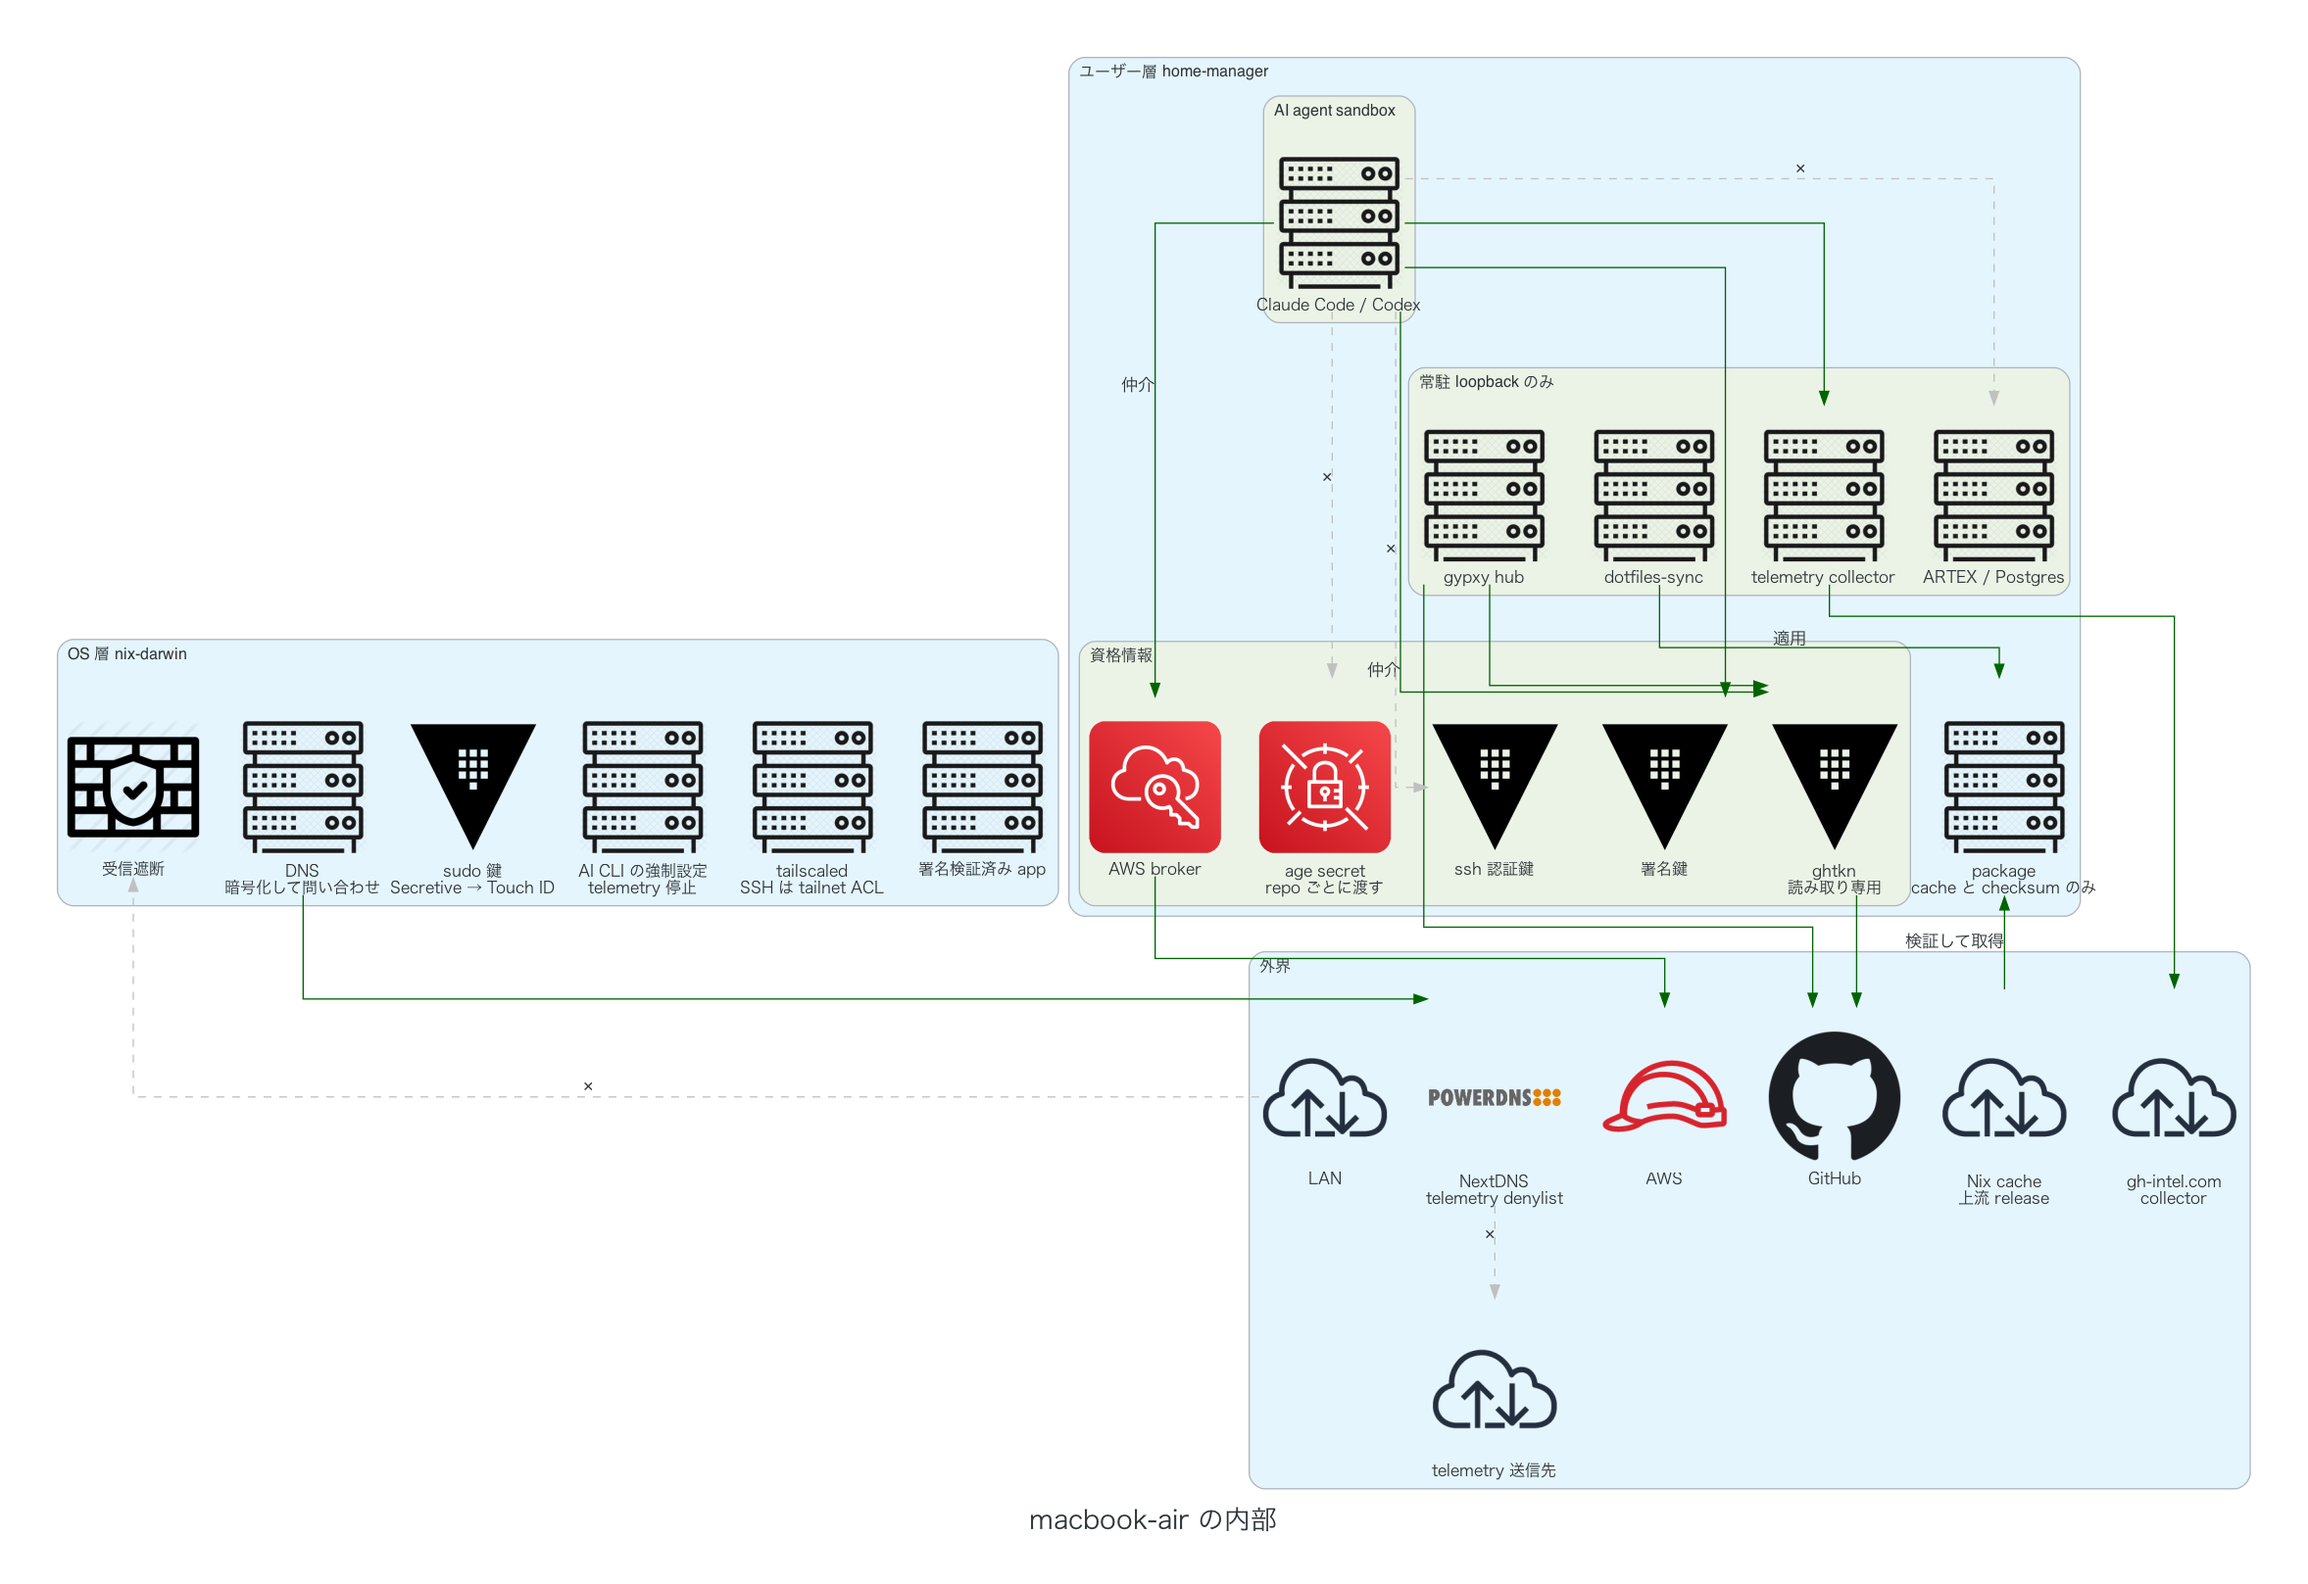
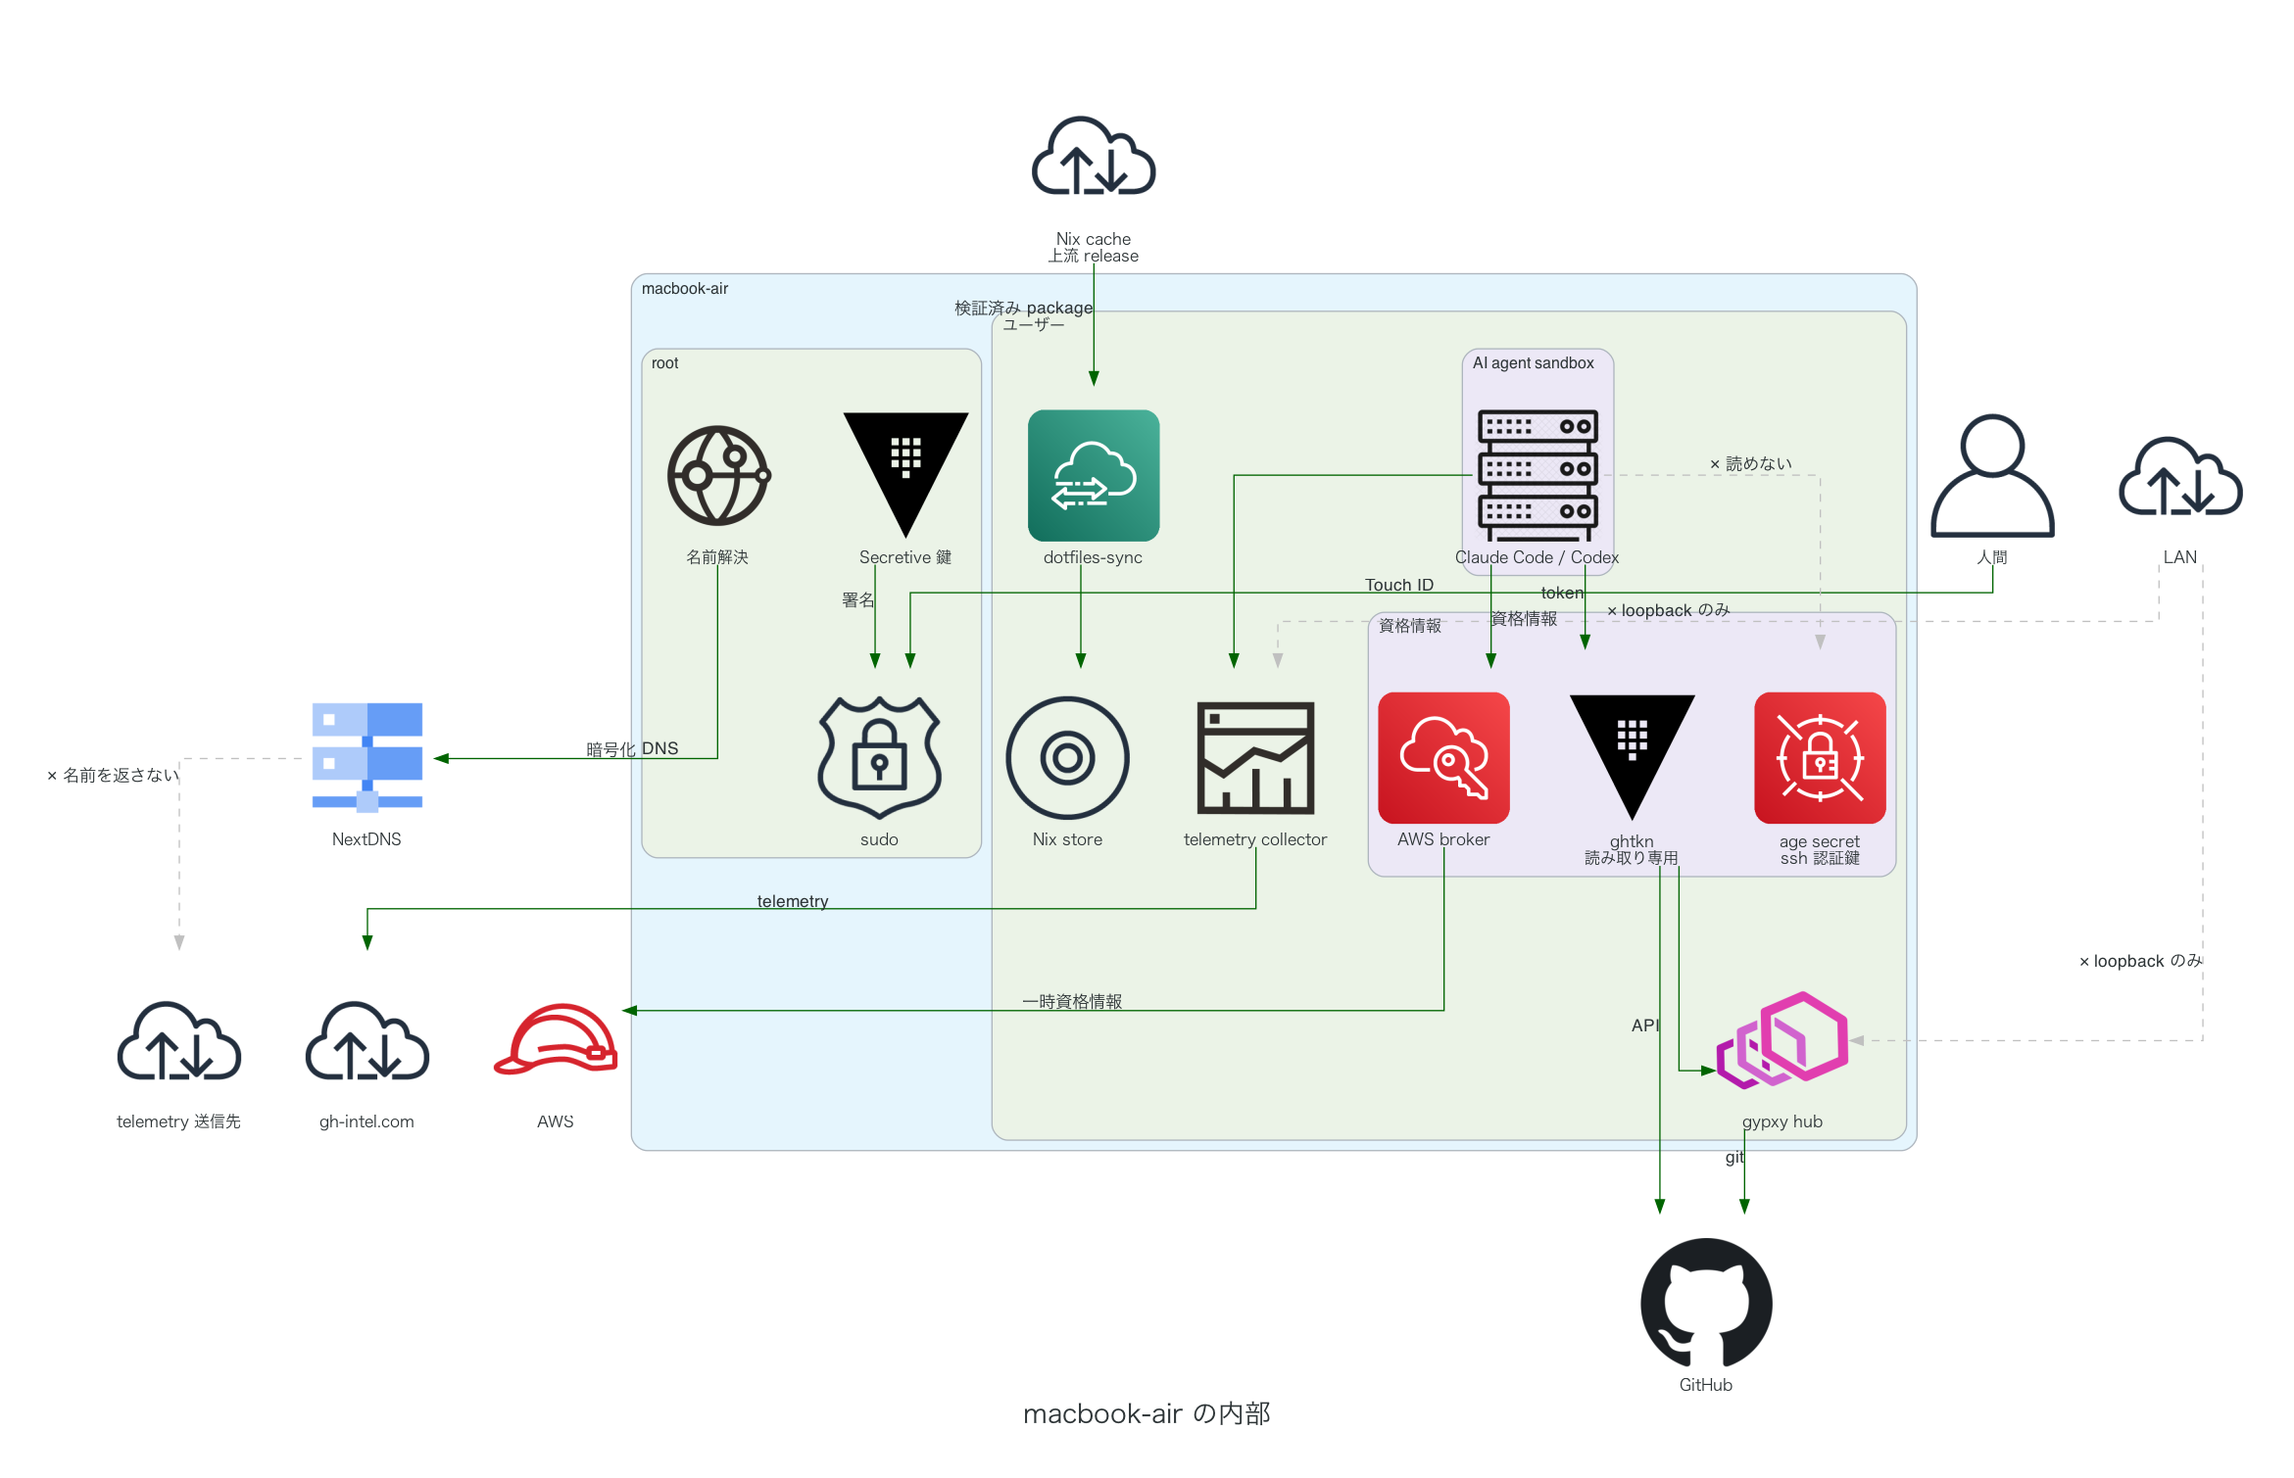
docs: 端末内部の図をデータの流れで描き直し、受信の遮断を loopback 待受として表す

diff --git a/docs/security/device_diagram.py b/docs/security/device_diagram.py
@@ -2,7 +2,7 @@
 # requires-python = ">=3.11"
 # dependencies = ["diagrams==0.24.4"]
 # ///
-"""端末ごとの内部構成を 1 端末 1 枚で (OS 層・ユーザー層・agent sandbox・資格情報・常駐) を図にする。
+"""端末ごとに、内部のプロセス・データと外部とのデータの流れを 1 枚ずつ描く。
 
 uv run docs/security/device_diagram.py  →  docs/security/device-<端末>.png
 """
@@ -10,27 +10,39 @@ uv run docs/security/device_diagram.py  →  docs/security/device-<端末>.png
 from pathlib import Path
 
 from diagrams import Cluster, Diagram, Edge
-from diagrams.aws.security import SecretsManager, SingleSignOn
+from diagrams.aws.compute import Lambda
+from diagrams.aws.general import Disk, SslPadlock, User
+from diagrams.aws.migration import Datasync
+from diagrams.aws.security import IAMRole, SecretsManager, SingleSignOn
+from diagrams.gcp.network import DNS
 from diagrams.generic.compute import Rack
-from diagrams.aws.security import IAMRole
-from diagrams.generic.network import Firewall
-from diagrams.onprem.network import Internet, Powerdns
-from diagrams.onprem.vcs import Github
-from diagrams.onprem.client import Client
+from diagrams.generic.device import Mobile
+from diagrams.generic.network import VPN
+from diagrams.ibm.compute import Key
+from diagrams.k8s.podconfig import Secret
+from diagrams.oci.connectivity import DNS as Resolver
+from diagrams.oci.monitoring import Telemetry
+from diagrams.onprem.ci import GithubActions
+from diagrams.onprem.network import Envoy, Internet
 from diagrams.onprem.security import Vault
+from diagrams.onprem.vcs import Github
 
 HERE = Path(__file__).parent
 
 ALLOW = "darkgreen"
 DENY = "gray"
 
-graph = {"rankdir": "TB", "fontname": "Hiragino Sans", "fontsize": "20", "pad": "0.5", "nodesep": "0.4", "ranksep": "1.0", "splines": "ortho", "forcelabels": "true"}
+graph = {"rankdir": "TB", "fontname": "Hiragino Sans", "fontsize": "20", "pad": "0.5", "nodesep": "0.6", "ranksep": "0.9", "splines": "ortho", "forcelabels": "true"}
 node = {"fontname": "Hiragino Sans", "fontsize": "12"}
 edge = {"fontname": "Hiragino Sans", "fontsize": "11"}
 
 
-def deny(src, dst):
-    src >> Edge(color=DENY, style="dashed", xlabel="✕") >> dst
+def flow(src, dst, label=""):
+    src >> Edge(color=ALLOW, xlabel=label) >> dst
+
+
+def deny(src, dst, label):
+    src >> Edge(color=DENY, style="dashed", xlabel=f"✕ {label}") >> dst
 
 
 def diagram(name):
@@ -45,97 +57,94 @@ def diagram(name):
     )
 
 
-def outside(studio):
-    with Cluster("外界"):
-        o = {
-            "lan": Internet("LAN"),
-            "dns": Powerdns("NextDNS\ntelemetry denylist"),
-            "tel": Internet("telemetry 送信先"),
-            "gh": Github("GitHub"),
-            "aws": IAMRole("AWS"),
-            "cache": Internet("Nix cache\n上流 release"),
-            "collector": Internet("gh-intel.com\ncollector"),
-        }
-        if studio is None:
-            o = {k: o[k] for k in ("lan", "dns", "tel", "gh", "aws")}
-    return o
-
-
-def mac(name, sudo_label, gh_label, studio):
+def mac(name, studio):
     with diagram(name):
-        o = outside(studio)
-        with Cluster("OS 層 nix-darwin"):
-            fw = Firewall("受信遮断")
-            resolver = Rack("DNS\n暗号化して問い合わせ")
-            Vault(sudo_label)
-            Rack("AI CLI の強制設定\ntelemetry 停止")
-            Rack("tailscaled\nSSH は tailnet ACL")
-            Rack("署名検証済み app")
+        operator = Mobile("macbook-air") if studio else User("人間")
+        lan = Internet("LAN")
+        cache = Internet("Nix cache\n上流 release")
 
-        with Cluster("ユーザー層 home-manager"):
-            pkgs = Rack("package\ncache と checksum のみ")
-            with Cluster("常駐 loopback のみ"):
-                sync = Rack("dotfiles-sync")
-                hub = Rack("gypxy hub")
-                otel = Rack("telemetry collector")
-                artex = Rack("ARTEX / Postgres")
+        with Cluster(name):
+            with Cluster("root"):
+                sudo = SslPadlock("sudo")
+                resolver = Resolver("名前解決")
+                if not studio:
+                    key = Vault("Secretive 鍵")
+
+            with Cluster("ユーザー"):
+                with Cluster("AI agent sandbox"):
+                    agent = Rack("Claude Code / Codex")
                 if studio:
                     ledger = Rack("ledger")
-                    Rack("CLIProxyAPI")
+                sync = Datasync("dotfiles-sync")
+                nixstore = Disk("Nix store")
+                with Cluster("資格情報"):
+                    ghtkn = Vault("ghtkn\n" + ("書き込み可" if studio else "読み取り専用"))
+                    broker = SingleSignOn("AWS broker")
+                    secrets = SecretsManager("age secret\nssh 認証鍵")
+                hub = Envoy("gypxy hub")
+                otel = Telemetry("telemetry collector")
 
-            with Cluster("資格情報"):
-                gh = Vault(gh_label)
-                aws = SingleSignOn("AWS broker")
-                age = SecretsManager("age secret\nrepo ごとに渡す")
-                auth = Vault("ssh 認証鍵")
-                sign = Vault("署名鍵")
+        dns = DNS("NextDNS")
+        tel = Internet("telemetry 送信先")
+        github = Github("GitHub")
+        aws = IAMRole("AWS")
+        collector = Internet("gh-intel.com")
 
-            with Cluster("AI agent sandbox"):
-                agent = Rack("Claude Code / Codex")
+        flow(operator, sudo, "署名" if studio else "Touch ID")
+        if not studio:
+            flow(key, sudo, "署名")
+        deny(lan, hub, "loopback のみ")
+        deny(lan, otel, "loopback のみ")
+        flow(cache, sync, "検証済み package")
+        flow(sync, nixstore)
 
-        deny(o["lan"], fw)
-        resolver >> Edge(color=ALLOW) >> o["dns"]
-        deny(o["dns"], o["tel"])
-        hub >> Edge(color=ALLOW) >> o["gh"]
-        gh >> Edge(color=ALLOW) >> o["gh"]
-        aws >> Edge(color=ALLOW) >> o["aws"]
-        o["cache"] >> Edge(color=ALLOW, xlabel="検証して取得") >> pkgs
-        otel >> Edge(color=ALLOW) >> o["collector"]
-
-        agent >> Edge(color=ALLOW, xlabel="仲介") >> gh
-        agent >> Edge(color=ALLOW, xlabel="仲介") >> aws
-        agent >> Edge(color=ALLOW) >> sign
-        agent >> Edge(color=ALLOW) >> otel
-        for dst in (age, auth, artex):
-            deny(agent, dst)
+        flow(agent, ghtkn, "token")
+        flow(agent, broker, "資格情報")
+        flow(agent, otel)
+        deny(agent, secrets, "読めない")
         if studio:
-            ledger >> Edge(color=ALLOW) >> aws
-        sync >> Edge(color=ALLOW, xlabel="適用") >> pkgs
-        hub >> Edge(color=ALLOW) >> gh
+            flow(ledger, ghtkn)
+            flow(ledger, broker)
+
+        flow(resolver, dns, "暗号化 DNS")
+        deny(dns, tel, "名前を返さない")
+        flow(ghtkn, hub)
+        flow(hub, github, "git")
+        flow(ghtkn, github, "API")
+        flow(broker, aws, "一時資格情報")
+        flow(otel, collector, "telemetry")
 
 
-mac("macbook-air", "sudo 鍵\nSecretive → Touch ID", "ghtkn\n読み取り専用", studio=False)
-mac("mac-studio", "sudo\nair の鍵で署名", "ghtkn\n書き込み可", studio=True)
+mac("macbook-air", studio=False)
+mac("mac-studio", studio=True)
 
 with diagram("ms-a2"):
-    o = outside(None)
-    with Cluster("OS 層 NixOS"):
-        Vault("ディスク暗号化")
-        net = Firewall("sshd なし\ntailnet ACL のみ")
-    with Cluster("job ごとの使い捨て環境"):
-        job = Rack("CI job\n専用 netns")
-    runner = Rack("CI runner\ntoken なし")
-    tpm = Vault("TPM 鍵")
-    crunner = Rack("claude runner\n専用ユーザー")
-    cenv = Vault("runner token\nroot のみ読める")
-    mhub = Rack("gypxy hub")
-    Rack("hikaevi")
+    lan = Internet("LAN")
+    tailnet = Internet("tailnet")
 
-    deny(o["lan"], net)
-    runner >> Edge(color=ALLOW, xlabel="起動") >> job
-    runner >> Edge(color=ALLOW) >> tpm
-    tpm >> Edge(color=ALLOW, xlabel="署名で認証") >> o["aws"]
-    o["aws"] >> Edge(color=ALLOW, xlabel="token を発行") >> o["gh"]
-    mhub >> Edge(color=ALLOW) >> o["gh"]
-    deny(crunner, cenv)
-    deny(job, tpm)
+    with Cluster("ms-a2"):
+        with Cluster("root"):
+            tsd = VPN("tailscaled")
+            runner = GithubActions("CI runner")
+            tpm = Key("TPM 鍵")
+            cenv = Secret("runner token")
+        with Cluster("job ごとの使い捨て環境"):
+            job = Rack("CI job")
+        with Cluster("claude-runner ユーザー"):
+            crunner = Rack("claude runner")
+        with Cluster("ユーザー"):
+            hub = Envoy("gypxy hub")
+
+    broker = Lambda("AWS local-broker")
+    github = Github("GitHub")
+
+    deny(lan, tsd, "sshd なし")
+    flow(tailnet, tsd, "ACL で許可した SSH")
+    deny(lan, hub, "loopback のみ")
+    flow(tpm, runner, "署名")
+    flow(runner, broker, "署名した要求")
+    flow(broker, github, "runner 登録")
+    flow(runner, job)
+    deny(job, tpm, "読めない")
+    flow(cenv, crunner, "起動時に渡す")
+    flow(hub, github, "git")
